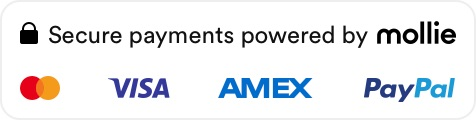
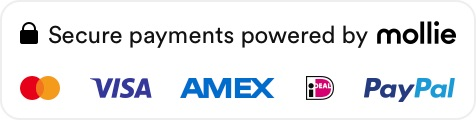
Added iDeal.

Changed region(s): [[0.1765, 0.625, 0.7059, 0.85]]

diff --git a/includes/better-checkout/assets/css/better-checkout.min.css b/includes/better-checkout/assets/css/better-checkout.min.css
@@ -1,1 +1,1 @@
-#content{background-repeat:no-repeat;background-size:100%;background-color:#e6e6e6;background-position:top center}.edd-checkout.ast-separate-container article.ast-article-single{padding:0}#edd-purchase-button,.edd-checkout #edd_final_total_wrap,.edd-checkout label,.edd-checkout legend,table tfoot{font-family:Jost}.edd-checkout #edd_checkout_wrap{max-width:1200px!important;display:flex;flex-direction:row;flex-wrap:wrap;margin:0}.edd-checkout #edd_checkout_wrap input[type=submit]{background-color:#2ecc40}.edd-checkout #edd_checkout_wrap input[type=submit]:hover{background-color:#3d9970}#edd_checkout_wrap a,#edd_checkout_wrap input[type=submit]{cursor:pointer}#edd_checkout_form_wrap fieldset{border:0}#ffwpress-payment-details__wrapper{background-color:transparent;padding:0;width:66%}#ffwpress-payment-details__wrapper.notification-area{padding-top:20px}#ffwpress-cart__wrapper{width:34%;background:#0daadb;padding:15px 30px 30px}#edd_purchase_form{display:flex;flex-direction:row;flex-wrap:wrap}.edd-alert{margin:0 30px;padding:10px 20px}#edd_checkout_wrap .edd-alert-info p,#edd_checkout_wrap p.edd_error{padding:0}#edd_checkout_wrap fieldset#edd_sl_renewal_fields{border:0;background:#0daadb;color:#fff;border-radius:3px;margin:20px 30px 10px;padding:10px 20px 5px}#edd_sl_renewal_fields p{padding-left:0}#edd_sl_renewal_fields .edd-sl-renewal-form-fields{padding:0}#edd_checkout_wrap fieldset#edd_sl_renewal_fields a{color:#fff;text-decoration:underline}.edd-sl-renewal-actions{margin:15px 0 10px}.ffwp-loader.edd-loading{position:absolute;top:50%;left:50%;transform:translate(-50%,-50%)}::-webkit-input-placeholder{color:transparent}:-moz-placeholder{color:transparent}::-moz-placeholder{color:transparent}:-ms-input-placeholder{color:transparent}#ffwpress-cart__wrapper fieldset legend,#ffwpress-payment-details__wrapper fieldset legend{color:#0daadb;background-color:transparent;border-bottom:0}#edd-card-address-2-wrap,#edd-card-address-wrap,#edd-card-city-wrap,#edd-card-country-wrap,#edd-card-state-wrap,#edd-card-zip-wrap,#edd-first-name-wrap,#edd-last-name-wrap,#edd_final_total_wrap{width:48%;display:inline-block;margin-right:0;padding-right:0!important}.edd-input,.edd-select{border-radius:3px!important;padding:15px 20px!important;width:100%}#edd_cc_address legend,#edd_cc_fields legend,#edd_checkout_form_wrap .edd-description,#edd_secure_site_wrapper,#edd_sl_renewal_fields legend{display:none}#edd_payment_mode_select_wrap{width:100%}#edd_payment_mode_select legend{position:relative}#edd_payment_mode_select legend:after{content:'';height:100%;margin-right:30px;position:absolute;top:50%;right:0;transform:translate(0,-50%);background-repeat:no-repeat;background-position:center;background-size:contain}fieldset#edd_checkout_user_info{margin:0;width:100%}#edd_checkout_wrap #edd_discount_code{margin-bottom:10px}#edd_checkout_form_wrap #edd-payment-mode-wrap label{margin-right:29px}#edd_checkout_form_wrap #edd-payment-mode-wrap label:last-child{margin-right:0}.edd-gateway-option{position:relative;width:48%;padding:15px 0 15px 15px;border:1px #ddd solid;border-radius:3px;cursor:pointer}.edd-gateway-option:after{content:'';position:absolute;top:50%;right:15px;transform:translate(0,-50%);background-repeat:no-repeat;background-position:center;background-size:contain;height:50%}.edd-gateway-option-selected{border:1px #0daadb solid}.edd-vat-number-wrap{width:48%;position:relative}#edd-vat-number{width:100%}#edd-card-vat-wrap .edd-description,#edd-card-vat-wrap label{display:inline-block}#edd-card-vat-wrap .edd-description{font-size:.75em}#edd-vat-check-button.ffwp-vat-valid{background-color:#2ecc40}#edd-card-vat-wrap .edd-loading-ajax.edd-loading{position:absolute;top:15%;left:100%}#edd_purchase_form_wrap{position:relative;width:100%;min-height:25px}#edd_purchase_form_wrap .edd-loading-ajax.edd-loading{position:absolute;left:49%}#edd_terms_agreement{padding:15px 0 10px!important}#edd-jilt-marketing-consent,#edd_agree_to_terms{height:1.2rem;width:1.2rem}#ffwpress-cart__wrapper fieldset legend{color:#fff;padding:0}#ffwpress-cart__wrapper .hide-on-desktop{display:none}#edd_checkout_wrap fieldset#ffwpress_checkout_shopping_cart>div{padding:0}#edd_checkout_cart{position:relative}table#edd_checkout_cart,td,th,tr{color:#fff;border:0}#edd_checkout_cart td,#edd_checkout_cart th{padding:10px 5px;min-width:58px;vertical-align:middle}#edd_checkout_wrap .edd_cart_remove_item_btn{color:#fff;margin-left:0;font-size:.75em}td.edd_cart_item_price,th.edd_cart_subtotal,th.edd_cart_tax{text-align:right}.edd_cart_footer_row .edd_cart_total{border-top:1px #fff solid}.edd-sl-upgrade-details .edd-sl-upgrade-key{font-style:italic;word-break:break-all}#edd_checkout_wrap #edd_discount_code{border:0;color:#fff}#edd_discount_code p{padding-left:0}.edd_discount_link{color:#fff;text-decoration:underline}#edd-discount-code-wrap label{font-weight:700}#edd-discount-code-wrap .edd-description{font-size:.75em;font-style:italic}#edd_checkout_form_wrap #edd_final_total_wrap{width:100%;text-align:center;font-size:1.25rem;border:0}#edd-purchase-button{width:92.5%;font-size:1.5rem;padding:20px;margin:0 30px}.edd-apply-discount.hidden{display:none}#edd-discount-error-wrap{display:block}#edd-discount-error-wrap.edd-alert{margin:15px 0}@media only screen and (max-width:480px){#edd_payment_mode_select .ffwpress-secure-lock{padding-right:0}#edd_payment_mode_select .ffwpress-secure-lock:after{background-image:none!important}}@media only screen and (max-width:768px){#ffwpress-cart__wrapper,#ffwpress-payment-details__wrapper{width:100%}#ffwpress-cart__wrapper.cart-wrapper-mobile{margin:10px 30px 0;padding:15px;text-align:center}#ffwpress-cart__wrapper .ffwpress-cart-link{color:#fff;text-decoration:underline}#ffwpress-cart__wrapper .hide-on-desktop{display:block}#edd-card-address-2-wrap,#edd-card-address-wrap,#edd-card-city-wrap,#edd-card-country-wrap,#edd-card-state-wrap,#edd-card-zip-wrap,#edd-first-name-wrap,#edd-last-name-wrap,#edd-vat-number{width:100%;padding-right:30px!important}#edd_checkout_cart td,#edd_checkout_cart th{padding:10px 25px}.edd-vat-number-wrap{width:100%}.edd-gateway-option{width:100%}#edd-purchase-button{width:100%;margin-left:0}}
+#content{background-repeat:no-repeat;background-size:100%;background-color:#e6e6e6;background-position:top center}.edd-checkout.ast-separate-container article.ast-article-single{padding:0}#edd-purchase-button,.edd-checkout #edd_final_total_wrap,.edd-checkout label,.edd-checkout legend,table tfoot{font-family:Jost}.edd-checkout #edd_checkout_wrap{max-width:1200px!important;display:flex;flex-direction:row;flex-wrap:wrap;margin:0}.edd-checkout #edd_checkout_wrap input[type=submit]{background-color:#2ecc40}.edd-checkout #edd_checkout_wrap input[type=submit]:hover{background-color:#3d9970}#edd_checkout_wrap a,#edd_checkout_wrap input[type=submit]{cursor:pointer}#edd_checkout_form_wrap fieldset{border:0}#ffwpress-payment-details__wrapper{background-color:transparent;padding:0;width:66%}#ffwpress-payment-details__wrapper.notification-area{padding-top:20px}#ffwpress-cart__wrapper{width:34%;background:#0daadb;padding:15px 30px 30px}#edd_purchase_form{display:flex;flex-direction:row;flex-wrap:wrap}.edd-alert{margin:0 30px;padding:10px 20px}#edd_checkout_wrap .edd-alert-info p,#edd_checkout_wrap p.edd_error{padding:0}#edd_checkout_wrap fieldset#edd_sl_renewal_fields{border:0;background:#0daadb;color:#fff;border-radius:3px;margin:20px 30px 10px;padding:10px 20px 5px}#edd_sl_renewal_fields p{padding-left:0}#edd_sl_renewal_fields .edd-sl-renewal-form-fields{padding:0}#edd_checkout_wrap fieldset#edd_sl_renewal_fields a{color:#fff;text-decoration:underline}.edd-sl-renewal-actions{margin:15px 0 10px}.ffwp-loader.edd-loading{position:absolute;top:50%;left:50%;transform:translate(-50%,-50%)}::-webkit-input-placeholder{color:transparent}:-moz-placeholder{color:transparent}::-moz-placeholder{color:transparent}:-ms-input-placeholder{color:transparent}#ffwpress-cart__wrapper fieldset legend,#ffwpress-payment-details__wrapper fieldset legend{color:#0daadb;background-color:transparent;border-bottom:0}#edd-card-address-2-wrap,#edd-card-address-wrap,#edd-card-city-wrap,#edd-card-country-wrap,#edd-card-state-wrap,#edd-card-zip-wrap,#edd-first-name-wrap,#edd-last-name-wrap,#edd_final_total_wrap{width:48%;display:inline-block;margin-right:0;padding-right:0!important}.edd-input,.edd-select{border-radius:3px!important;padding:15px 20px!important;width:100%}#edd_cc_address legend,#edd_cc_fields legend,#edd_checkout_form_wrap .edd-description,#edd_secure_site_wrapper,#edd_sl_renewal_fields legend{display:none}#edd_payment_mode_select_wrap{width:100%}#edd_payment_mode_select legend{position:relative}#edd_payment_mode_select legend:after{content:'';height:100%;margin-right:30px;position:absolute;top:50%;right:0;transform:translate(0,-50%);background-repeat:no-repeat;background-position:center;background-size:contain}fieldset#edd_checkout_user_info{margin:0;width:100%}#edd_checkout_wrap #edd_discount_code{margin-bottom:10px}#edd_checkout_form_wrap #edd-payment-mode-wrap label{margin-right:10px}#edd_checkout_form_wrap #edd-payment-mode-wrap label:last-child{margin-right:0}.edd-gateway-option{position:relative;width:30.136%;padding:15px 0 15px 15px;border:1px #ddd solid;border-radius:3px;cursor:pointer}#edd-gateway-option-mollie_creditcard{width:37%}.edd-gateway-option:after{content:'';position:absolute;top:50%;right:15px;transform:translate(0,-50%);background-repeat:no-repeat;background-position:center;background-size:contain;height:50%}.edd-gateway-option-selected{border:1px #0daadb solid}.edd-vat-number-wrap{width:48%;position:relative}#edd-vat-number{width:100%}#edd-card-vat-wrap .edd-description,#edd-card-vat-wrap label{display:inline-block}#edd-card-vat-wrap .edd-description{font-size:.75em}#edd-vat-check-button.ffwp-vat-valid{background-color:#2ecc40}#edd-card-vat-wrap .edd-loading-ajax.edd-loading{position:absolute;top:15%;left:100%}#edd_purchase_form_wrap{position:relative;width:100%;min-height:25px}#edd_purchase_form_wrap .edd-loading-ajax.edd-loading{position:absolute;left:49%}#edd_terms_agreement{padding:15px 0 10px!important}#edd-jilt-marketing-consent,#edd_agree_to_terms{height:1.2rem;width:1.2rem}#ffwpress-cart__wrapper fieldset legend{color:#fff;padding:0}#ffwpress-cart__wrapper .hide-on-desktop{display:none}#edd_checkout_wrap fieldset#ffwpress_checkout_shopping_cart>div{padding:0}#edd_checkout_cart{position:relative}table#edd_checkout_cart,td,th,tr{color:#fff;border:0}#edd_checkout_cart td,#edd_checkout_cart th{padding:10px 5px;min-width:58px;vertical-align:middle}#edd_checkout_wrap .edd_cart_remove_item_btn{color:#fff;margin-left:0;font-size:.75em}td.edd_cart_item_price,th.edd_cart_subtotal,th.edd_cart_tax{text-align:right}.edd_cart_footer_row .edd_cart_total{border-top:1px #fff solid}.edd-sl-upgrade-details .edd-sl-upgrade-key{font-style:italic;word-break:break-all}#edd_checkout_wrap #edd_discount_code{border:0;color:#fff}#edd_discount_code p{padding-left:0}.edd_discount_link{color:#fff;text-decoration:underline}#edd-discount-code-wrap label{font-weight:700}#edd-discount-code-wrap .edd-description{font-size:.75em;font-style:italic}#edd_checkout_form_wrap #edd_final_total_wrap{width:100%;text-align:center;font-size:1.25rem;border:0}#edd-purchase-button{width:92.5%;font-size:1.5rem;padding:20px;margin:0 30px}.edd-apply-discount.hidden{display:none}#edd-discount-error-wrap{display:block}#edd-discount-error-wrap.edd-alert{margin:15px 0}@media only screen and (max-width:480px){#edd_payment_mode_select .ffwpress-secure-lock{padding-right:0}#edd_payment_mode_select .ffwpress-secure-lock:after{background-image:none!important}}@media only screen and (max-width:768px){#ffwpress-cart__wrapper,#ffwpress-payment-details__wrapper{width:100%}#ffwpress-cart__wrapper.cart-wrapper-mobile{margin:10px 30px 0;padding:15px;text-align:center}#ffwpress-cart__wrapper .ffwpress-cart-link{color:#fff;text-decoration:underline}#ffwpress-cart__wrapper .hide-on-desktop{display:block}#edd-card-address-2-wrap,#edd-card-address-wrap,#edd-card-city-wrap,#edd-card-country-wrap,#edd-card-state-wrap,#edd-card-zip-wrap,#edd-first-name-wrap,#edd-last-name-wrap,#edd-vat-number{width:100%;padding-right:30px!important}#edd_checkout_cart td,#edd_checkout_cart th{padding:10px 25px}.edd-vat-number-wrap{width:100%}.edd-gateway-option{width:100%}#edd-purchase-button{width:100%;margin-left:0}}

diff --git a/includes/better-checkout/assets/css/better-checkout.css b/includes/better-checkout/assets/css/better-checkout.css
@@ -202,7 +202,7 @@ fieldset#edd_checkout_user_info {
 }
 
 #edd_checkout_form_wrap #edd-payment-mode-wrap label {
-    margin-right: 29px;
+    margin-right: 10px;
 }
 
 #edd_checkout_form_wrap #edd-payment-mode-wrap label:last-child {
@@ -211,11 +211,17 @@ fieldset#edd_checkout_user_info {
 
 .edd-gateway-option {
     position: relative;
-    width: 48%;
+    width: 30.136%;
     padding: 15px 0 15px 15px;
     border: 1px #ddd solid;
     border-radius: 3px;
     cursor: pointer;
+}
+
+/** Credit Card payment methods has more logos, that's why we give it a little more space */
+
+#edd-gateway-option-mollie_creditcard {
+    width: 37%;
 }
 
 .edd-gateway-option:after {

diff --git a/includes/better-checkout/class-enable.php b/includes/better-checkout/class-enable.php
@@ -345,9 +345,14 @@ class FFWP_BetterCheckout_Enable
                 width: 122px;
             }
 
+            #edd-gateway-option-mollie_ideal:after {
+                background-image: url('<?= FFWP_PLUGIN_URL . 'assets/images/ideal-logo.png'; ?>');
+                width: 40px;
+            }
+
             #edd-gateway-option-mollie_paypal:after {
                 background-image: url('<?= FFWP_PLUGIN_URL . 'assets/images/paypal-logo.png'; ?>');
-                width: 131px;
+                width: 40px;
             }
         </style>
 <?php
